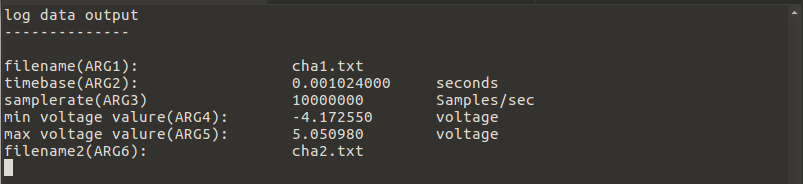
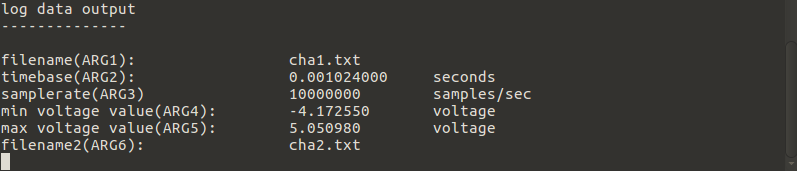
Correct spelling mistakes, thanks to Mr. Heighway

diff --git a/README.md b/README.md
@@ -35,5 +35,9 @@ The raw data should be stored as ASCII text and the basic gnuplot config file is
 
 ## Licence
 
-This program by Michael Krause is licenced under the terms of the [GPLv3](https://www.gnu.org/licenses/gpl-3.0.de.html).<br>
+This program by Michael Krause is licensed under the terms of the [GPLv3](https://www.gnu.org/licenses/gpl-3.0.de.html).<br>
 Please note that gnuplot is an independent software that is not from the gpOskar author. gnuplot has its own licensing terms.
+
+## Thanks to:
+
+Jeremy Heighway for mentoring english grammar and spelling
